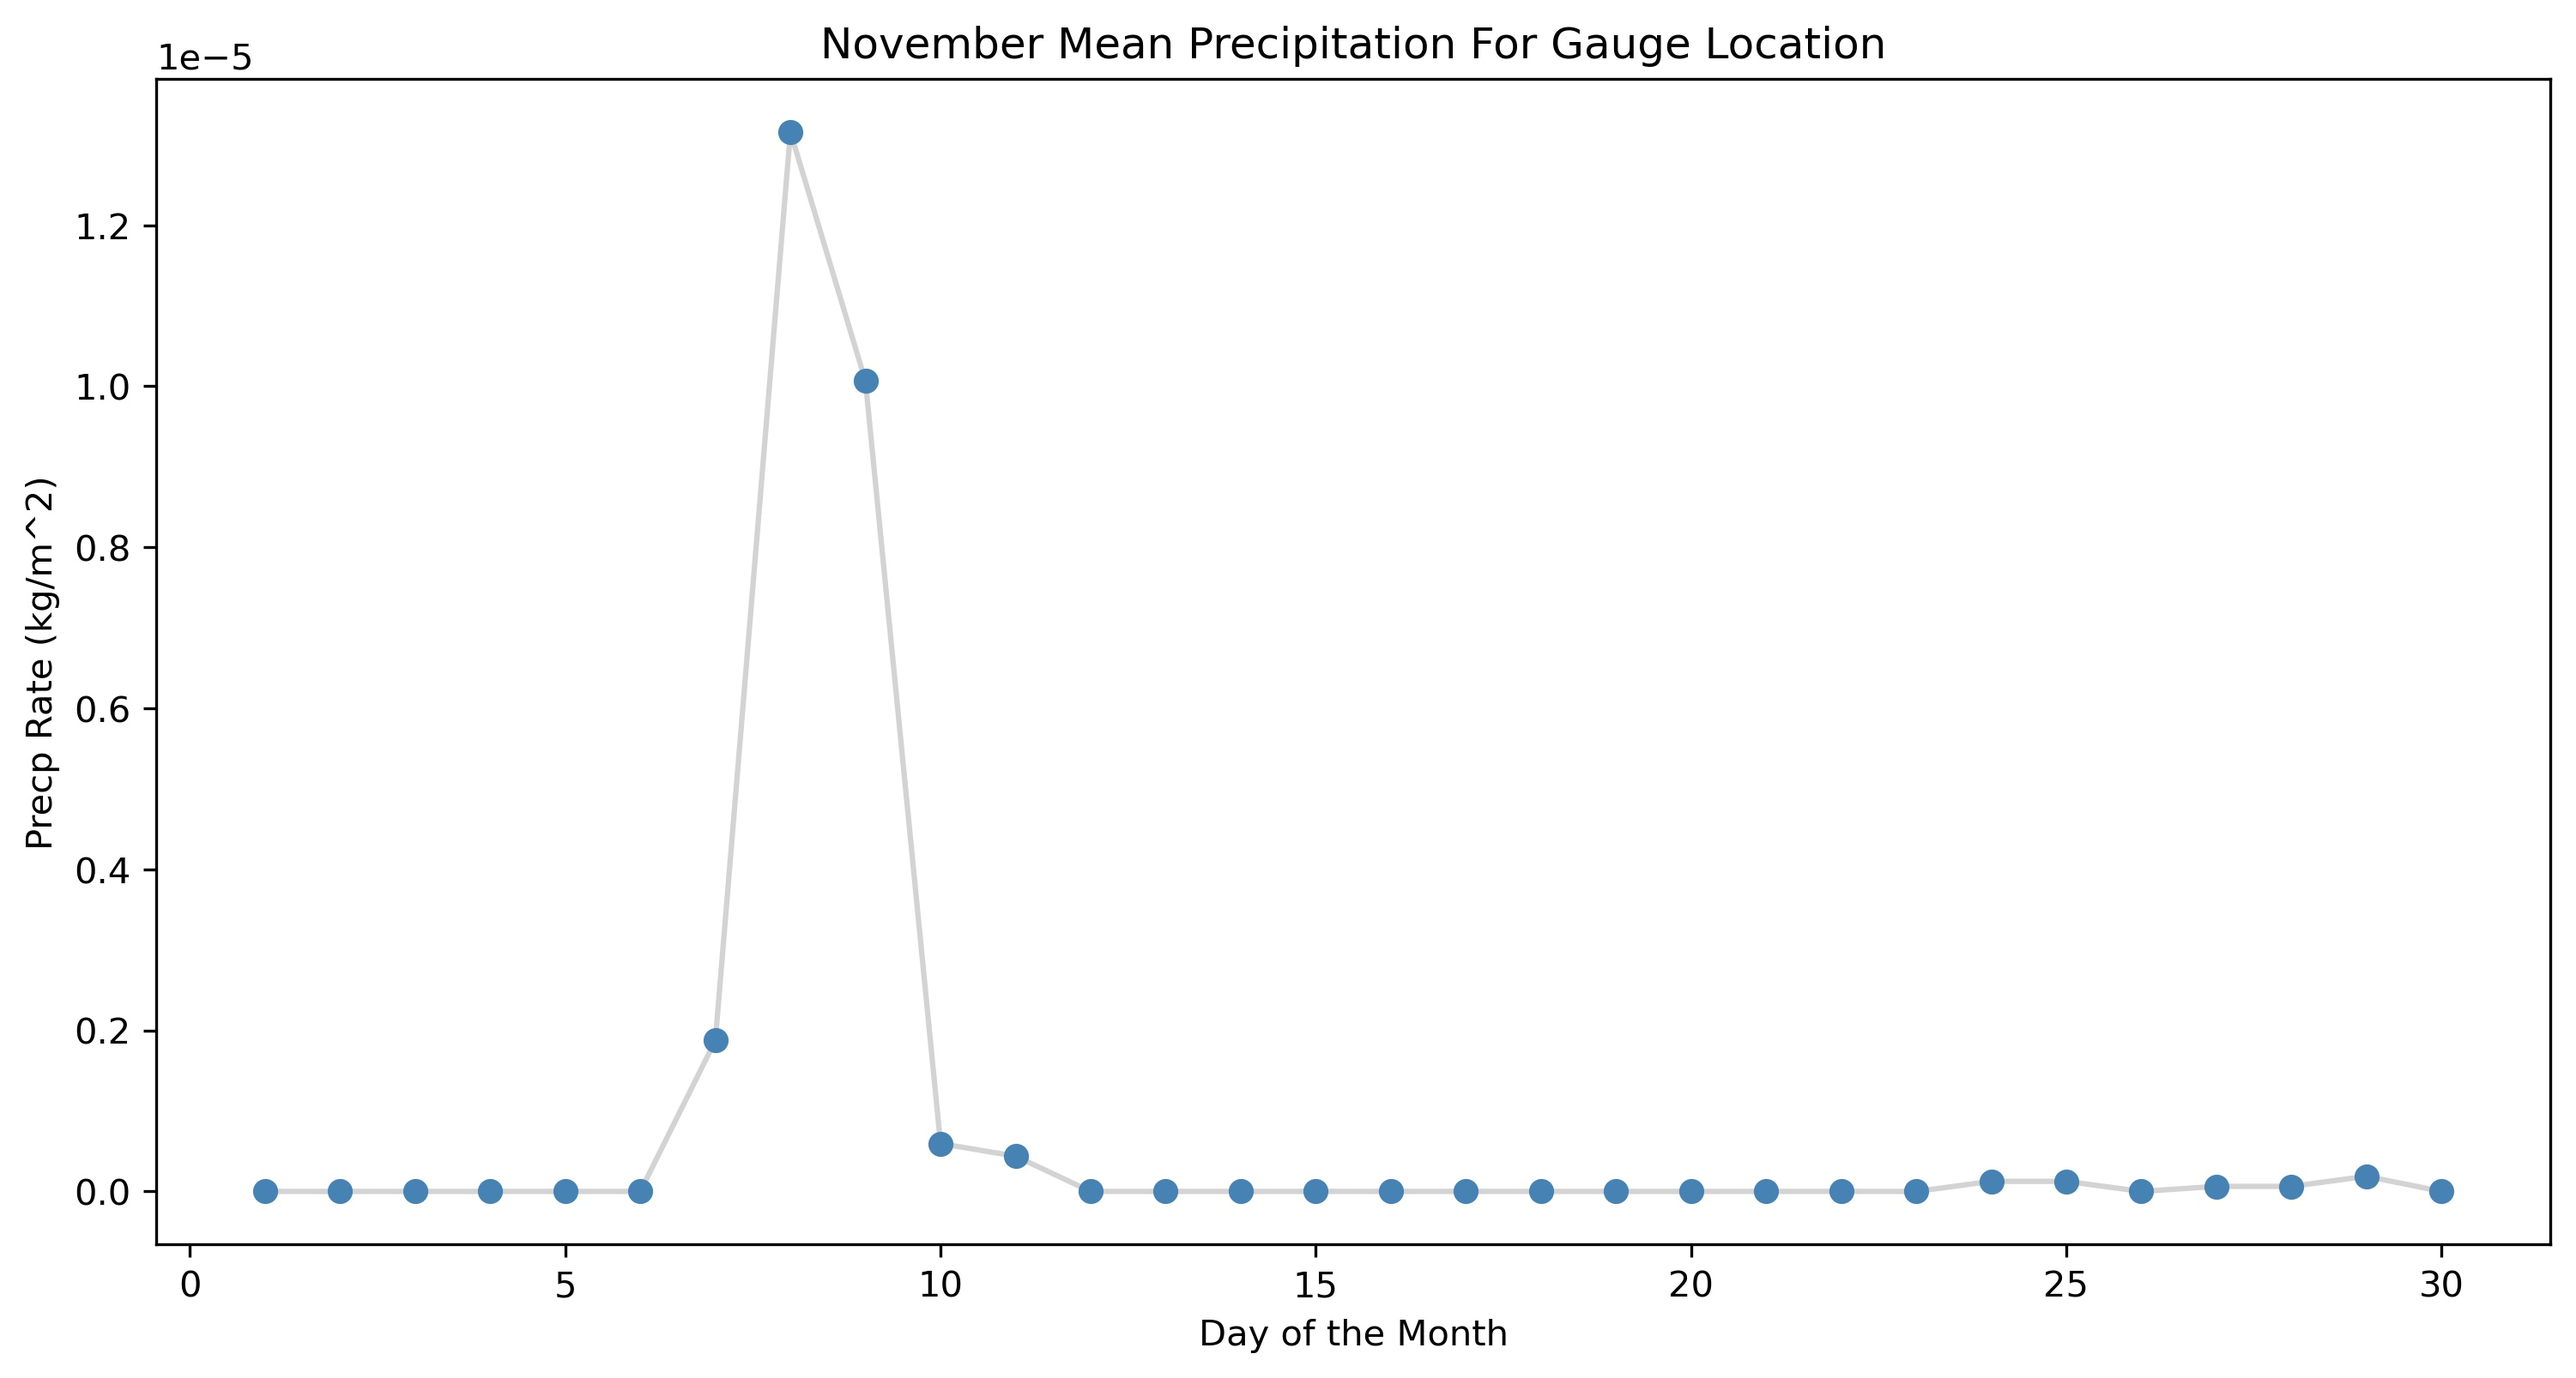
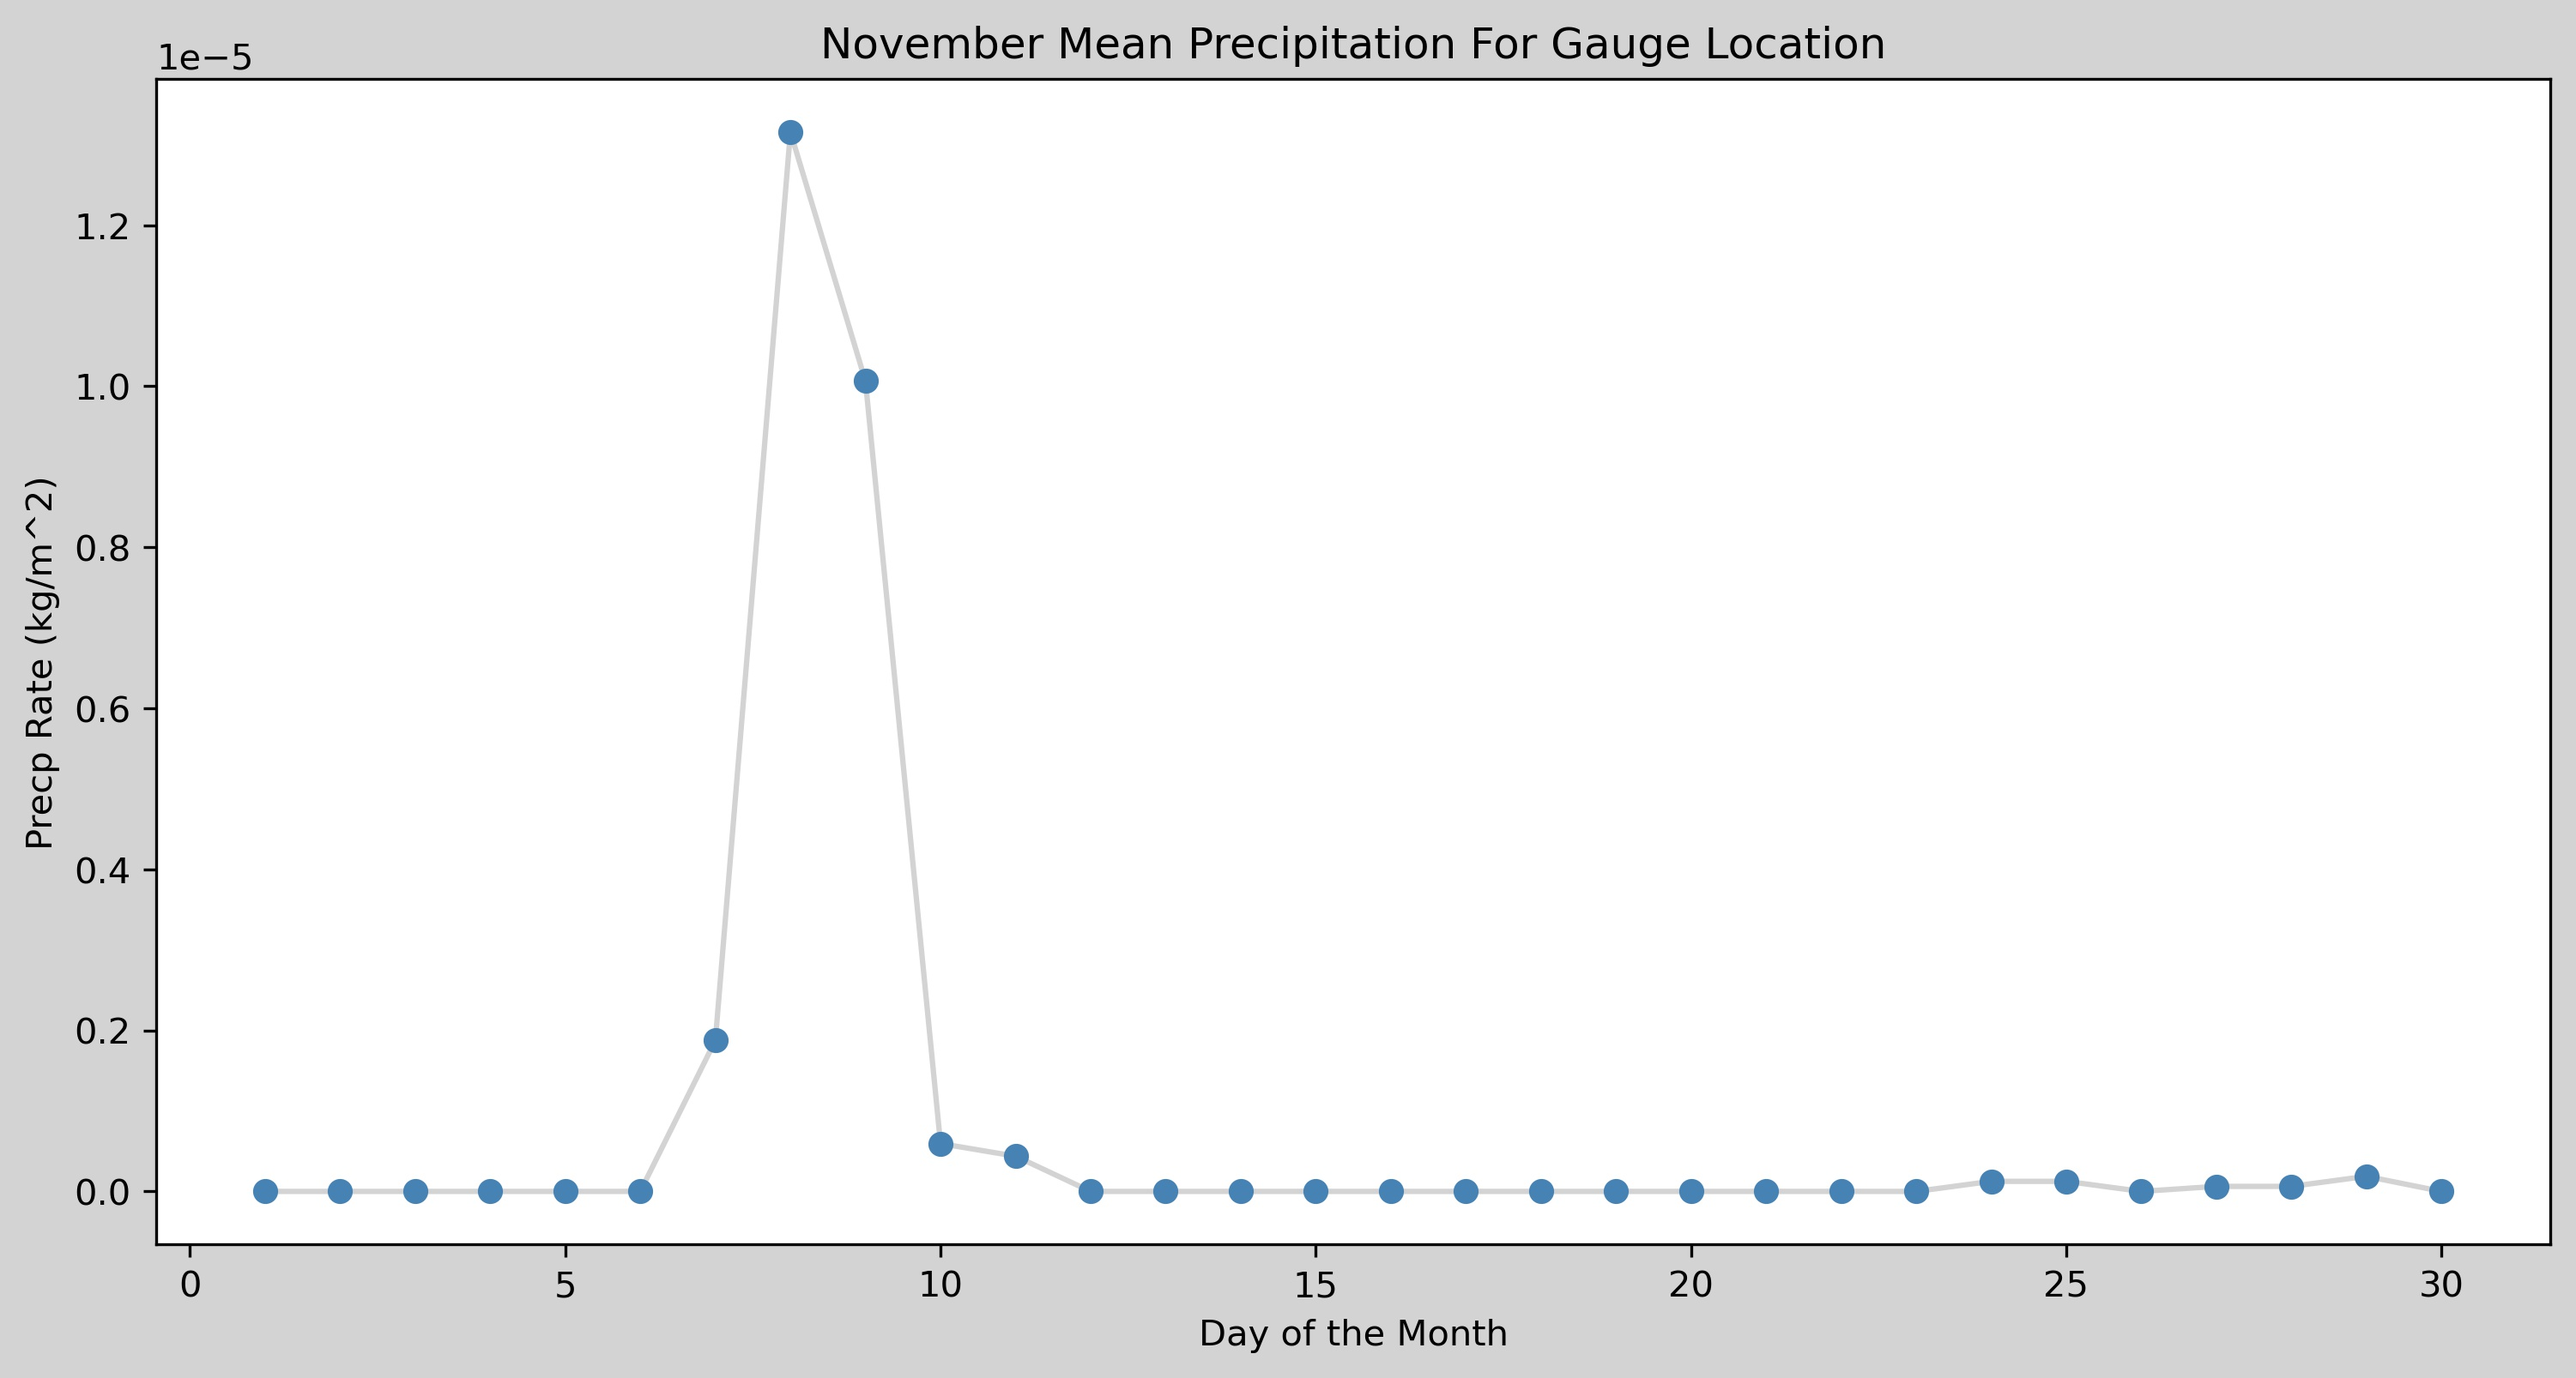
Fixed comments, PEP8, graph styles

Changed region(s): [[0.0, 0.0, 1.0, 1.0]]

diff --git a/working_drafts/team_forecast/Group2_forecast.py b/working_drafts/team_forecast/Group2_forecast.py
@@ -44,8 +44,8 @@ flow_data['day'] = pd.DatetimeIndex(flow_data.index).day
 flow_data['year'] = pd.DatetimeIndex(flow_data.index).year
 
 
-flow_y=flow_data.resample('Y').mean()
-flow_w=flow_data
+flow_y =flow_data.resample('Y').mean()
+flow_w =flow_data
 flow_w['month'] = pd.DatetimeIndex(flow_w.index).month
 flow_w['day'] = pd.DatetimeIndex(flow_w.index).day
 # Resample the data to find and plot mean values for month of November
@@ -62,6 +62,7 @@ nov_pmean.plot.line(marker="o",
 ax.set(title="November flow",
        xlabel="average of each year",
        ylabel="flow (kg/m^2)")
+fig.set(facecolor='lightgrey')
 plt.show()
 fig.savefig('Nov_flow.jpg', dpi=300, bbox_inches='tight')
 
@@ -108,6 +109,7 @@ nov_pmean.plot.line(marker="o",
 ax.set(title="November Mean Precipitation For Gauge Location",
        xlabel="Day of the Month",
        ylabel="Precp Rate (kg/m^2)")
+fig.set(facecolor='lightgrey')
 plt.show()
 fig.savefig('Nov_precip.jpg', dpi=300, bbox_inches='tight')
 
@@ -165,7 +167,9 @@ type(precip_val)
 date_format = mdates.DateFormatter("%m/%d")
 fig, ax = plt.subplots()
 ax.plot(flow_data_2['flow'], label='Daily Flow', marker='o',
-        color='darkturquoise')
+        color='lightgray',
+        markerfacecolor='darkturquoise',
+        markeredgecolor='darkturquoise')
 ax.set(title="Observed Flow for Week 11/05/21 - 11/11/21", xlabel="Date",
        ylabel="Flow [cfs]", ylim=[0, 250],
        xlim=[datetime.date(2021, 11, 5), datetime.date(2021, 11, 11)])
@@ -276,7 +280,7 @@ ax.set(title="Salt River Basin Drainage (km^2)", xlabel="Longitude",
        ylabel="Latitude")
 ctx.add_basemap(ax, crs=saltverde.crs)
 ax.legend()
-fig.set(facecolor='lightgrey')
+fig.set(facecolor='white')
 plt.show()
 
 # %%
@@ -307,7 +311,7 @@ model.fit(x, y)
 r_sq = model.score(x, y)
 print('coefficient of determination:', np.round(r_sq, 2))
 
-#print the intercept and the slope
+# Print the intercept and the slope
 print('intercept:', np.round(model.intercept_, 2))
 print('slope:', np.round(model.coef_, 2))
 
@@ -317,18 +321,23 @@ print(" This week mean flow is ", round(prediction[0], 1))
 print(" This week mean flow is ", round(prediction[1], 1))
 #
 # %%
-# Line  plot comparison of predicted and observed flows
-fig, ax = plt.subplots(figsize=(20,4))
-ax.plot(flow_mean.index[1:], flow_mean['flow'][1:],color='blue', label='simulated 2 lag')
-ax.plot(flow_mean.index[1:], prediction,color='red', label='obs')
-ax.set(title="Linear regression flow results", xlabel="time", ylabel="Simulation with 2 lag (cfs)",
-       yscale='log', ylim=(0,15000))
+# Line plot comparison of predicted and observed flows
+fig, ax = plt.subplots(figsize=(20, 4))
+ax.plot(flow_mean.index[1:], flow_mean['flow'][1:], color='blue',
+        label='simulated 2 lag')
+ax.plot(flow_mean.index[1:], prediction, color='red', label='obs')
+ax.set(title="Linear regression flow results", xlabel="Time",
+       ylabel="Simulation with 2 lag (cfs)",
+       yscale='log', ylim=(0, 15000))
 ax.legend()
+fig.set(facecolor='lightgray')
 plt.show()
 
 fig.savefig('linear_regression.jpg', dpi=300, bbox_inches='tight')
 # %%
 # Function that provides the logarithmic flow values for a desired timeframe
+
+
 def Monthly_ObservedFlow(startyear, endyear, month, firstday, lastday):
        '''Variables:
        flow_data: USGS Streamgage 09506000 daily streamflow data values
@@ -347,11 +356,13 @@ def Monthly_ObservedFlow(startyear, endyear, month, firstday, lastday):
        ax.plot(plot.index.day, plot['flow'],
                         label=x)
        ax.set(title='Observed Flow',yscale='log', 
-              ylabel='Log Flow (cfs)')
+              ylabel='Log Flow (cfs)', xlabel='Day in Month')
        fig.set(facecolor='lightgrey')
        plt.show()
 
        return fig
+
+
 # %%
 fig = Monthly_ObservedFlow(2005, 2021, 11, 1, 31)
-fig.savefig('monthly_log_obs', dpi=300, bbox_inches='tight')
+fig.savefig('Nov_log_obs', dpi=300, bbox_inches='tight')
